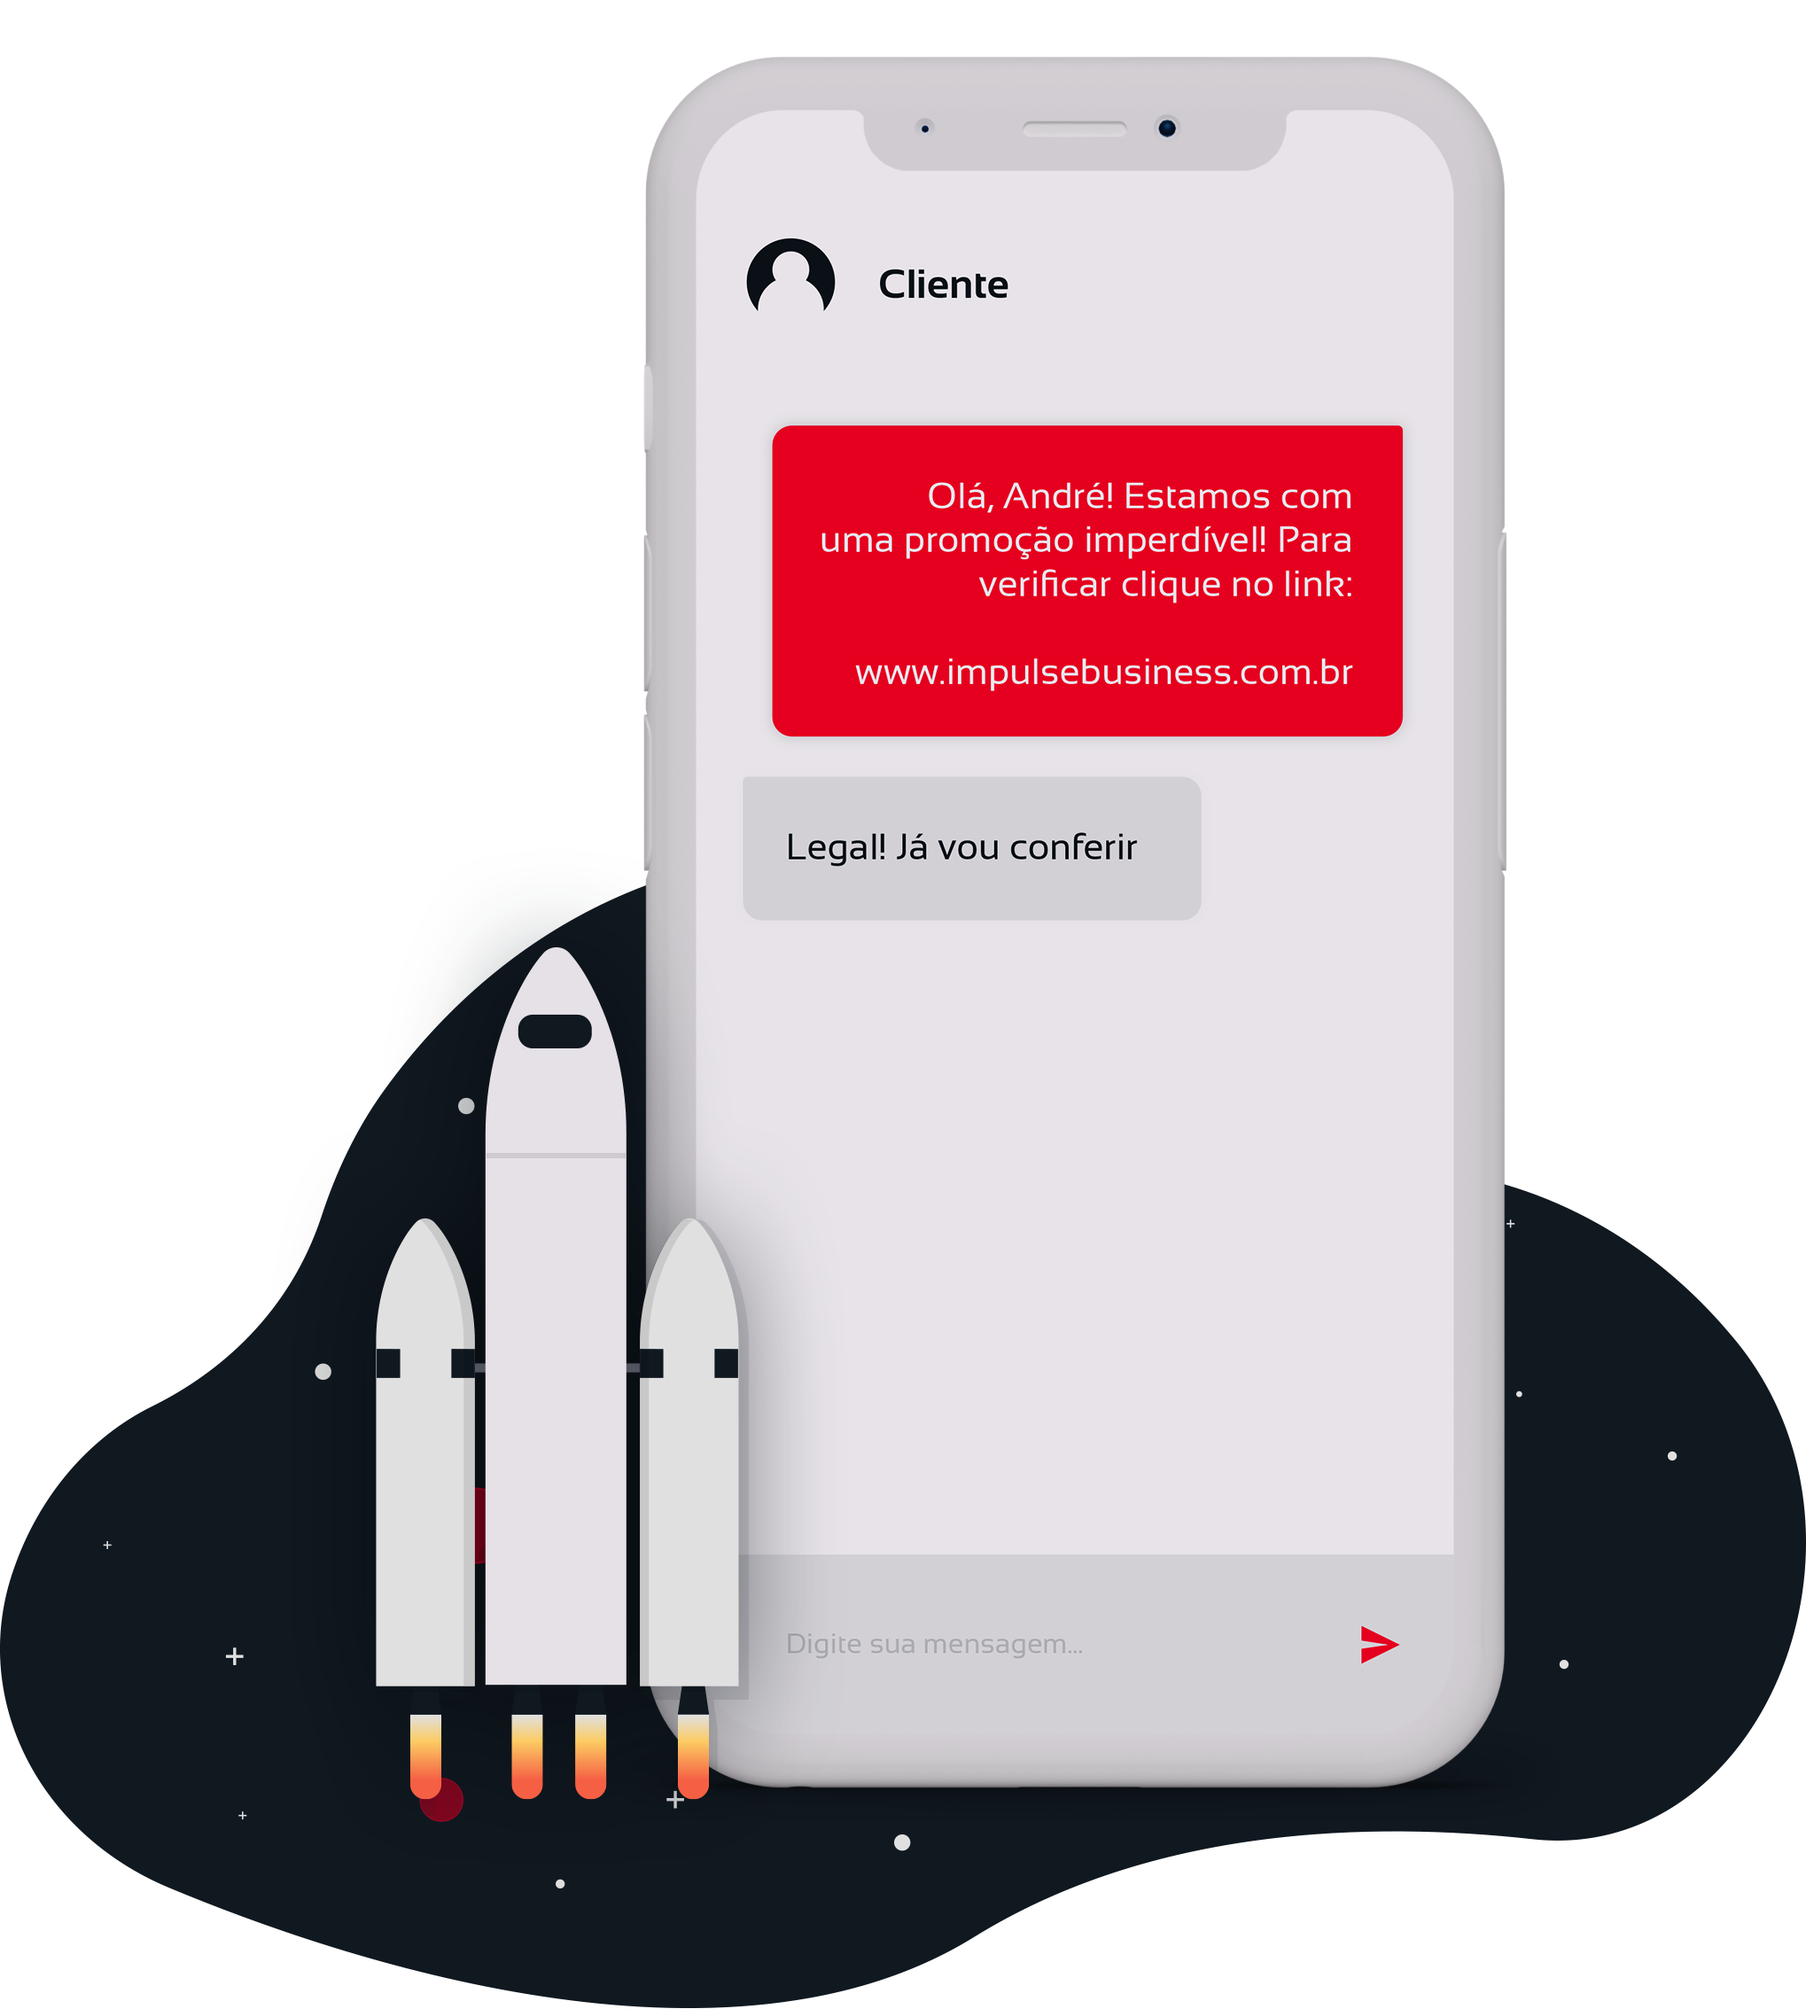
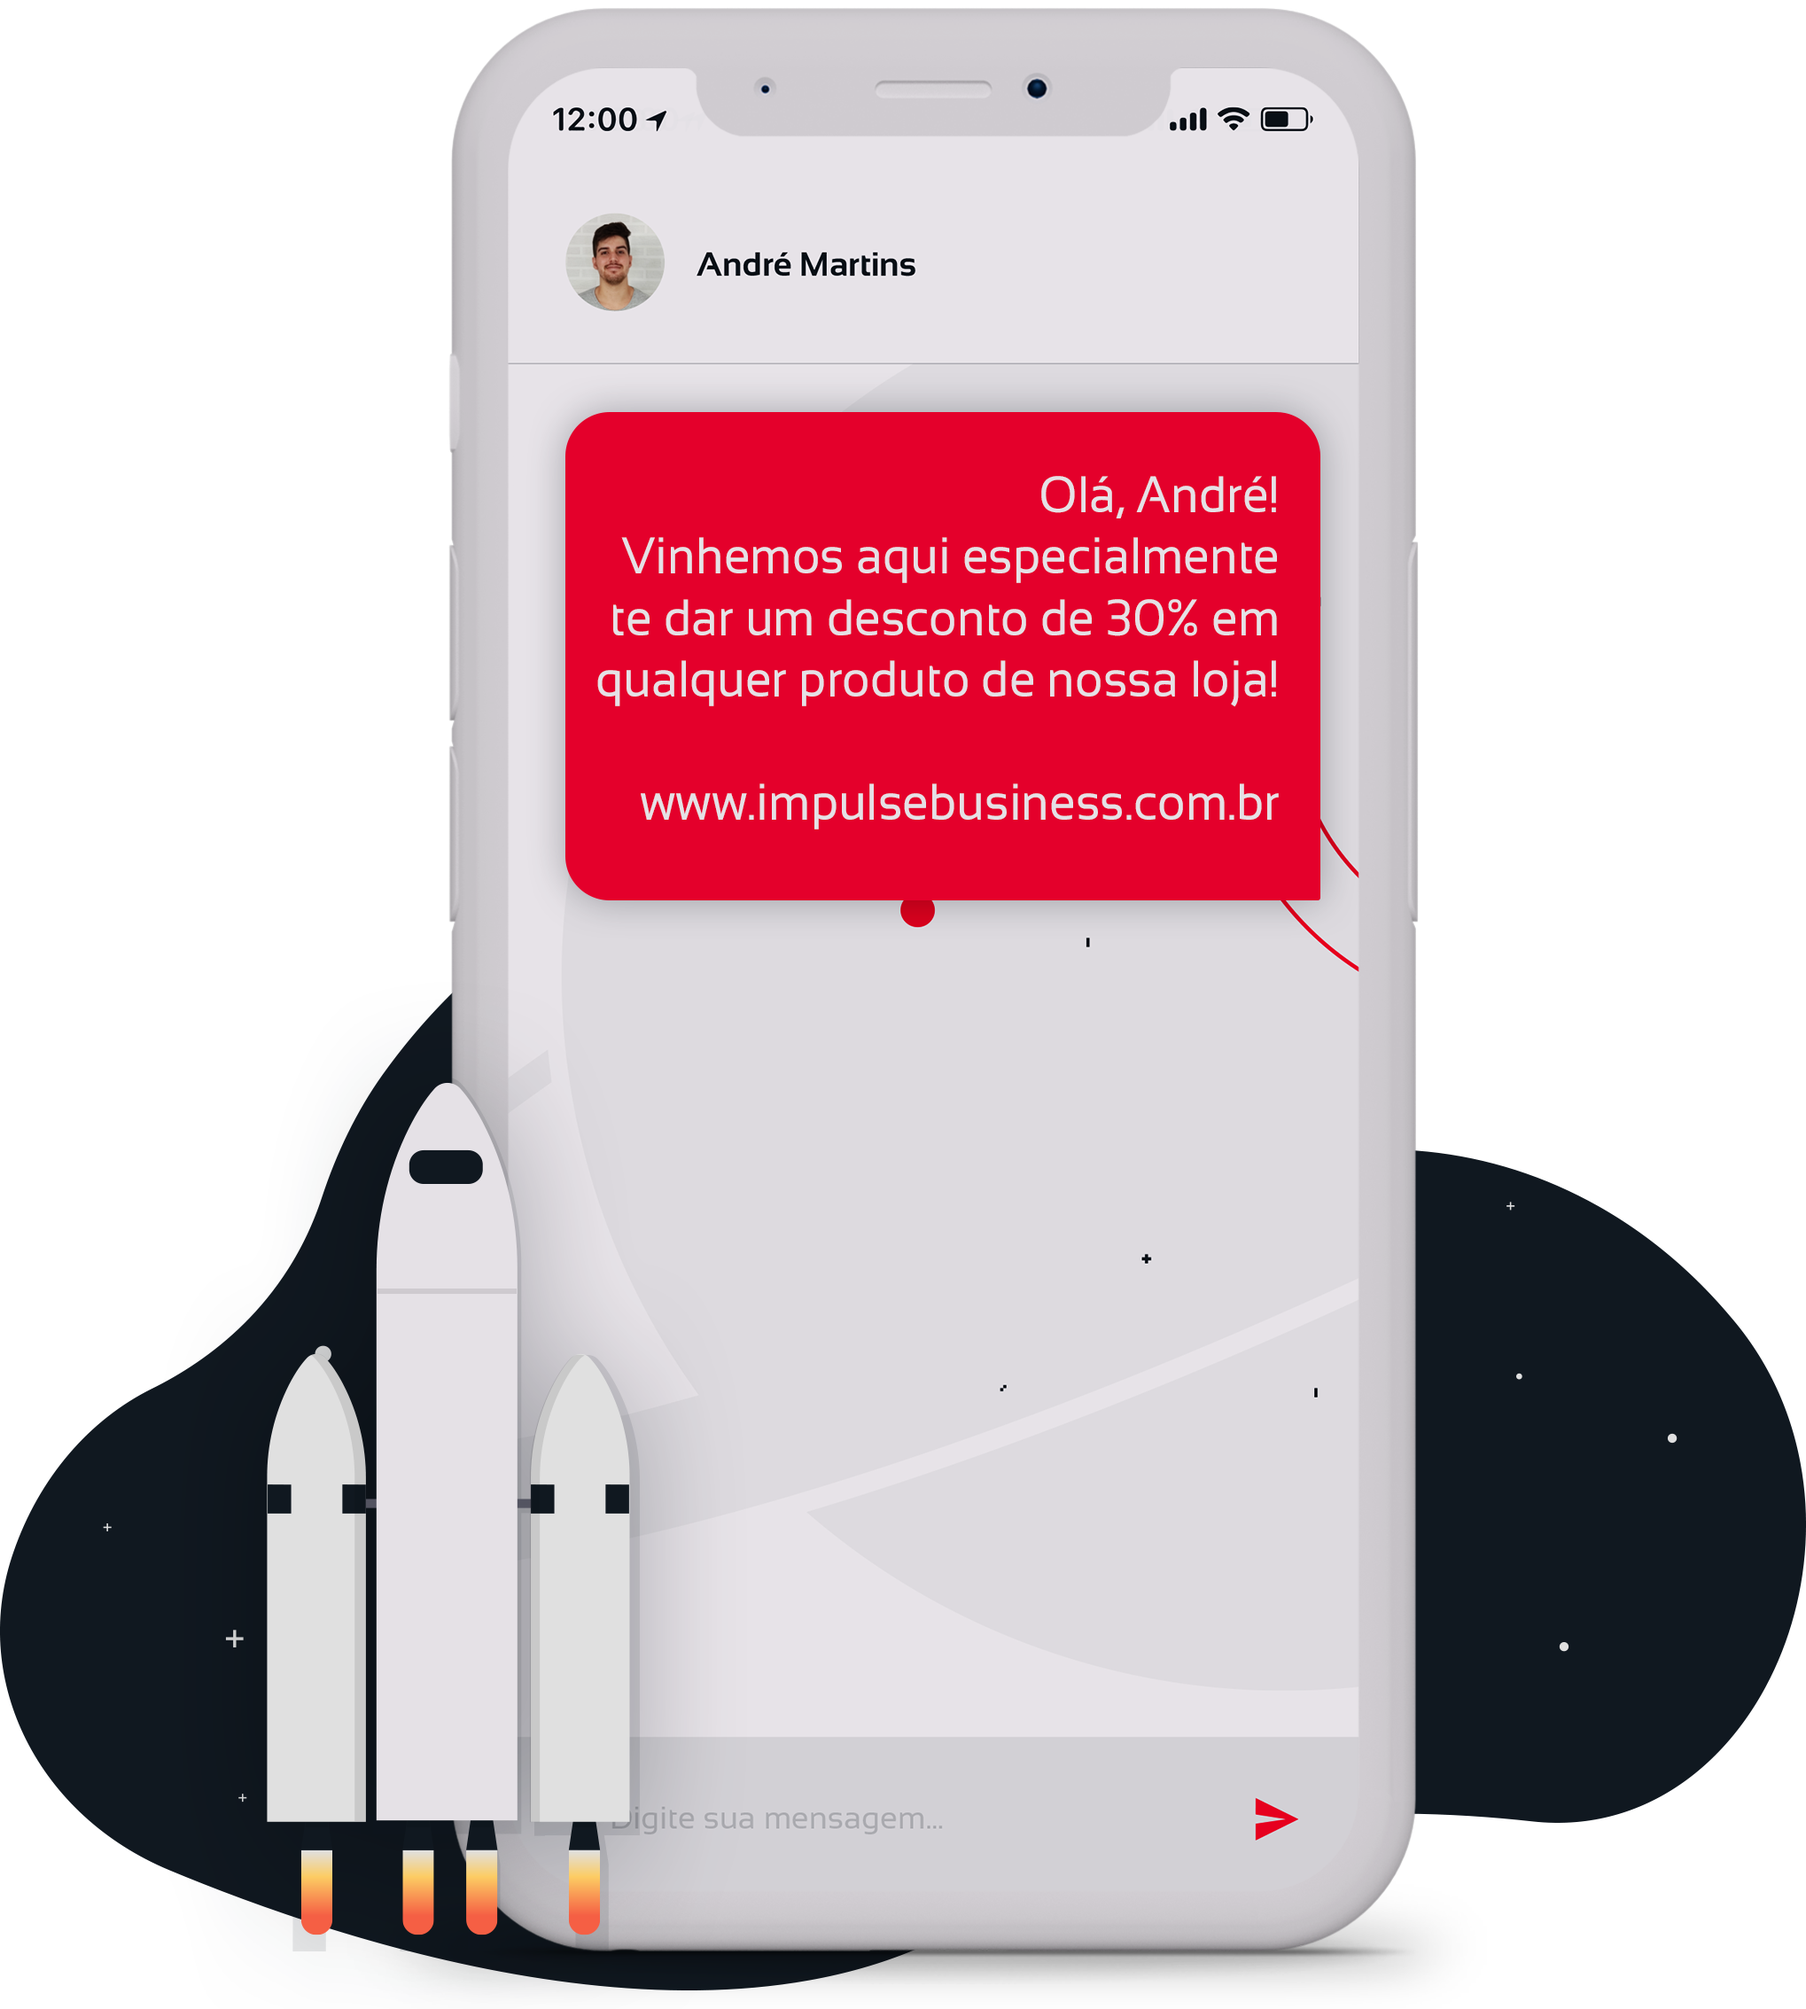
Trocada as imagens do conteúdo e corrigido alguns textos, falta as imagens das pessoas

diff --git a/index.html b/index.html
@@ -179,7 +179,7 @@
                   </div>
                 </div>
                 <div class="col-md-6">
-                  <img id="img-notebook" src="util/img/illustrations/notebook3.png">
+                  <img id="img-notebook" src="util/img/illustrations/notebook.png">
                 </div>
               </div>
             </div>
@@ -189,7 +189,7 @@
                 <div class="col-md-5">
                   <div>
                     <h2>Atendimento Automatizado</h2>
-                    <h3>Ofereça agilidade e qualidade no suporte ao cliente, com um Atendimento Automático!</h3>
+                    <h3>Automatize o seu atendimento ao cliente oferencendo agilidade e qualidade, resultando em uma diminuição de seus custos e padronização no atendimento.</h3>
                   </div>
                 </div>
                 <div class="col-md-5">
@@ -221,7 +221,7 @@
                   </div>
                 </div>
                 <div class="col-md-6">
-                  <img src="util/img/illustrations/celular-campanha-de-marketing2.png">
+                  <img src="util/img/illustrations/celular-campanha-de-marketing.png">
                 </div>
               </div>
             </div>
@@ -249,7 +249,7 @@
                   </div>
                 </div>
                 <div class="col-md-6">
-                  <img src="util/img/illustrations/pc-api.png">
+                  <img src="util/img/illustrations/captura-de-leads.png">
                 </div>
               </div>
             </div>

diff --git a/css/style.css b/css/style.css
@@ -298,7 +298,7 @@
 }
 
 .artigo:nth-child(3) span:nth-child(2){
-	background: url("../util/img/illustrations/tempo-conversao.svg") no-repeat;
+	background: url("../util/img/illustrations/clientes-nao-voltam.svg") no-repeat;
 	background-size: auto 100%;
 	background-position: center;
 }
@@ -326,6 +326,7 @@
 .artigo span:nth-child(3) {
 	height: 35%;
 	width: 98%;
+	padding-top: 10px;
 	display: block;
 }
 
